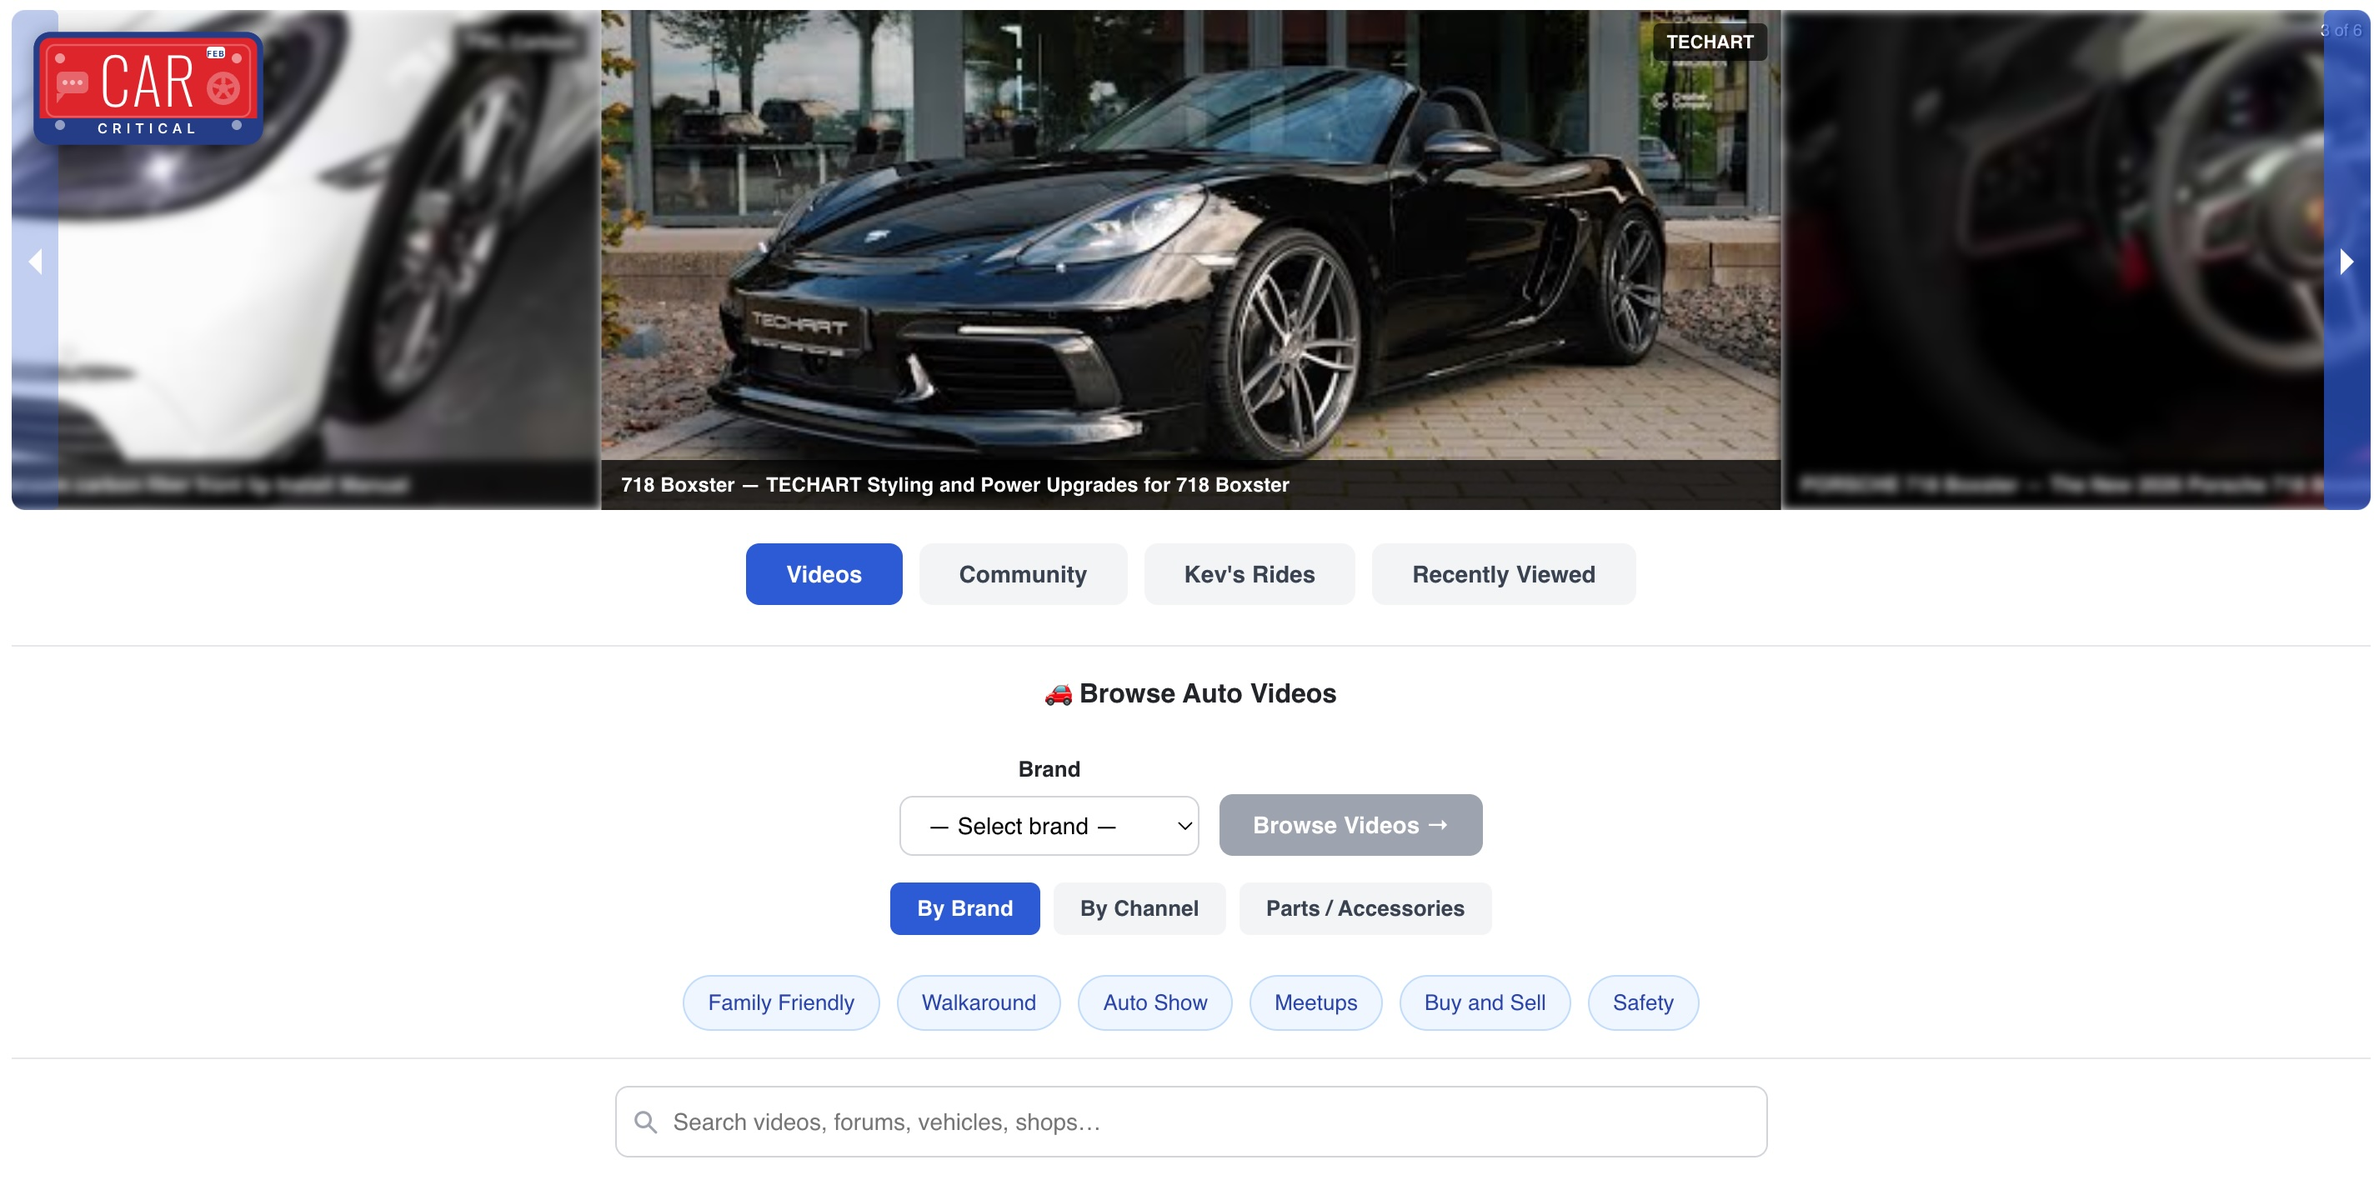
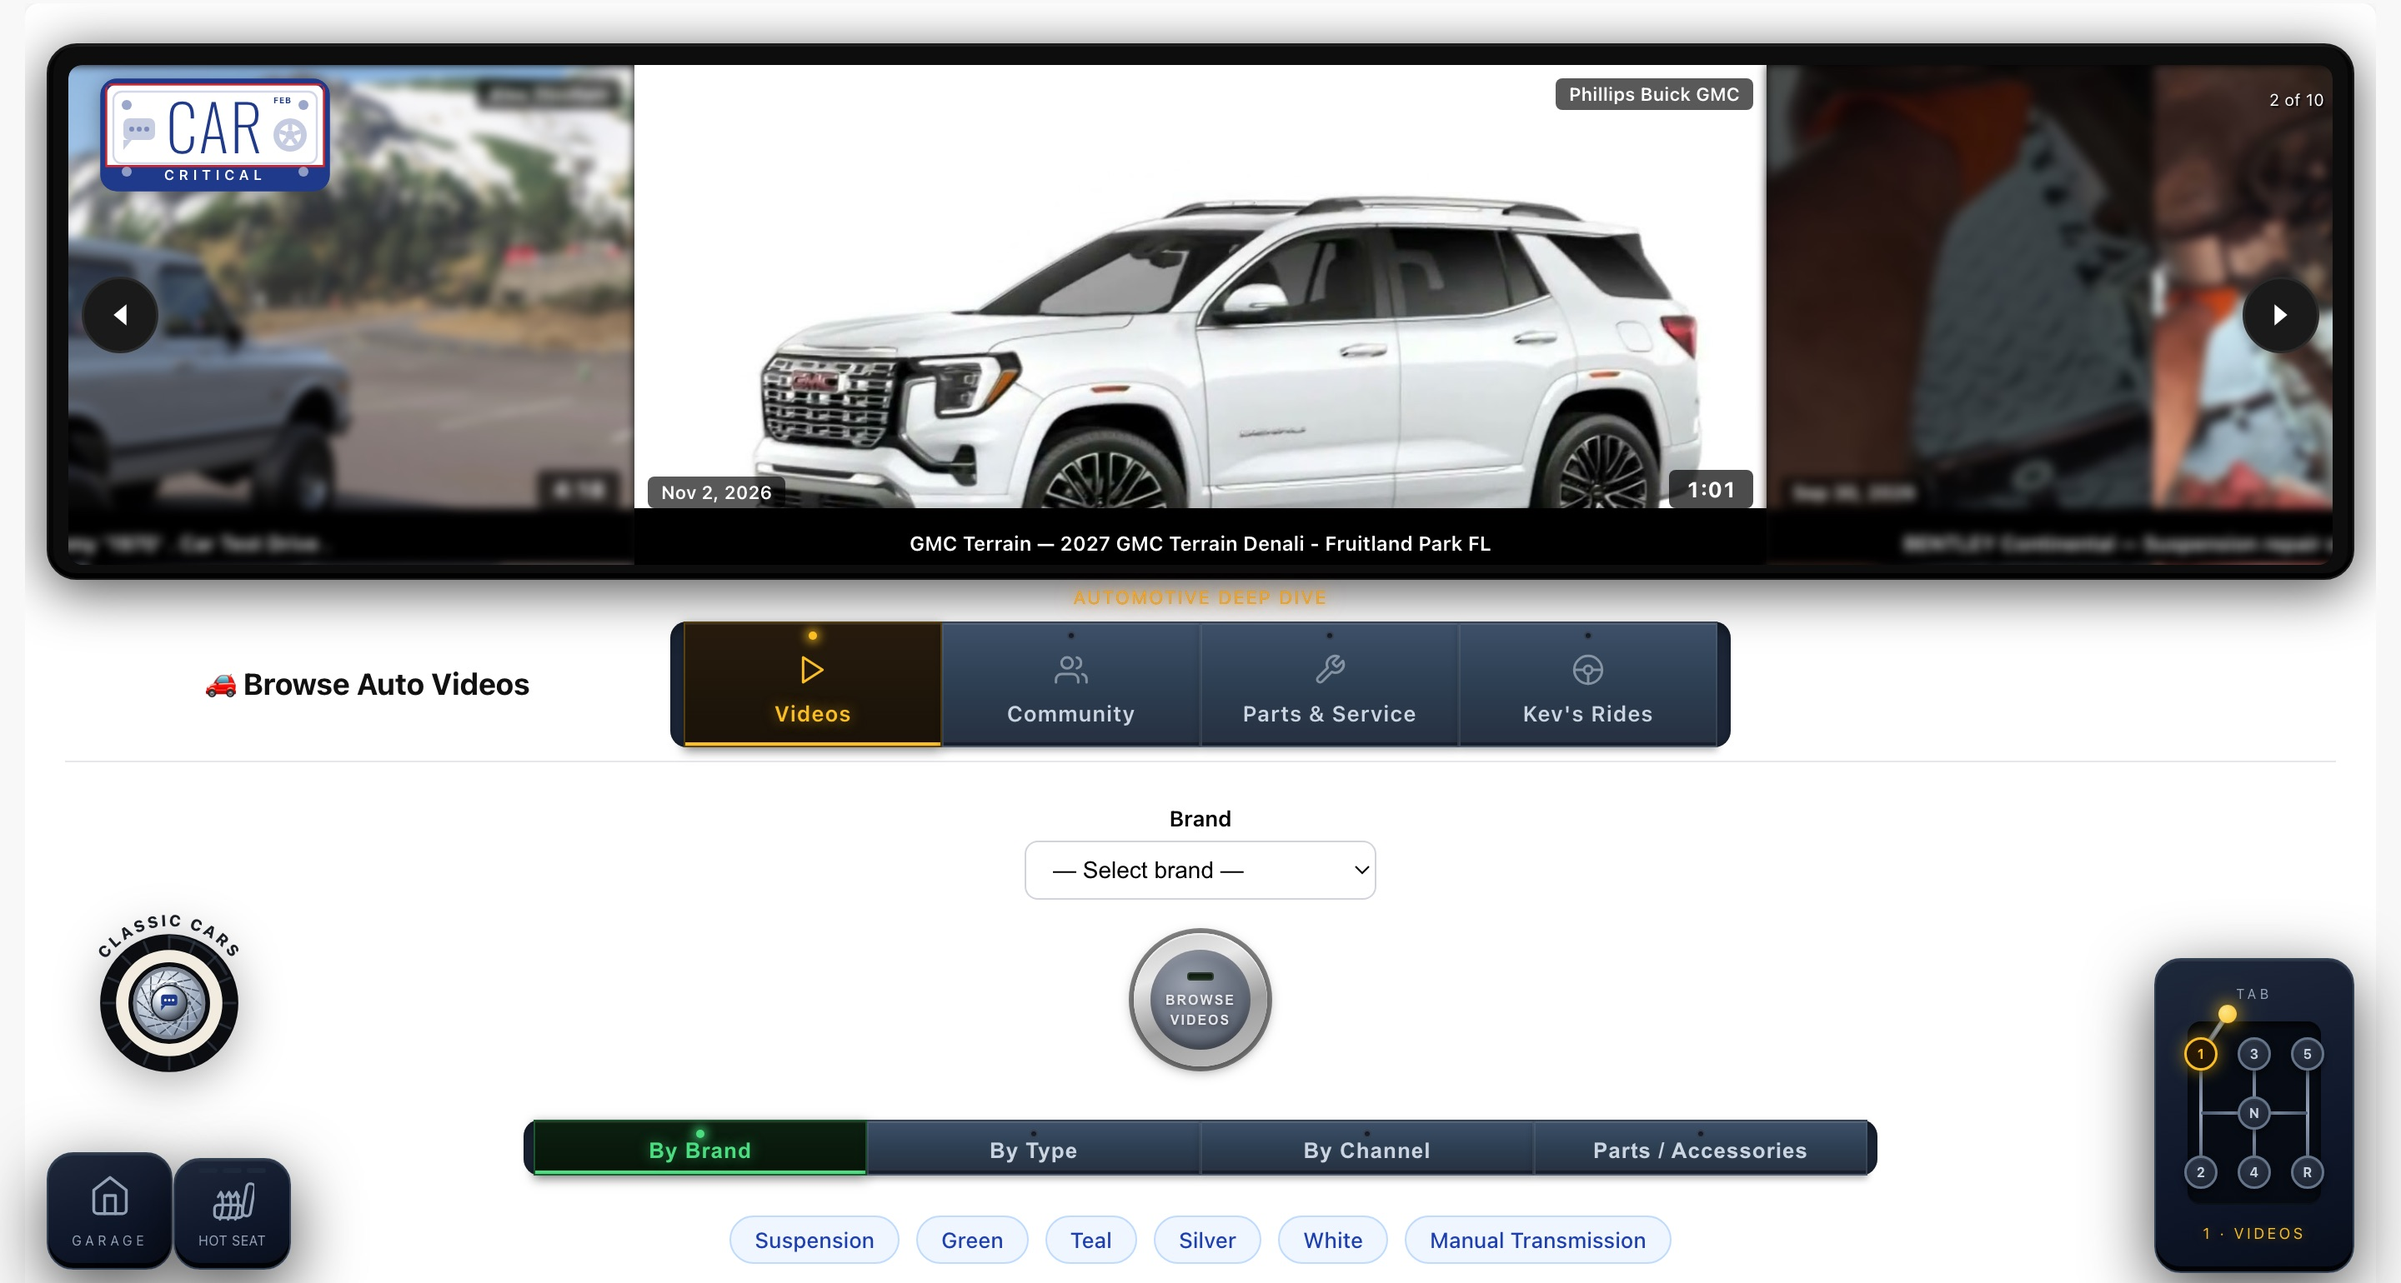
lots of misc updates

diff --git a/src/components/skills.test.js b/src/components/skills.test.js
@@ -9,6 +9,7 @@ let root;
 const mockSkills = ['PHP', 'React', 'MySQL', 'Docker', 'Linux', 'Git', 'Java', 'CSS', 'HTML 5', 'AWS', 'Extra1'];
 const mockSomeExperience = ['Python', 'NodeJS', 'Ruby on Rails'];
 const mockSaas = ['Google Analytics', 'Salesforce', 'Zendesk', 'Zoho'];
+const mockAi = ['Claude', 'Groq', 'OpenCode'];
 
 beforeEach(() => {
     div = document.createElement('div');
@@ -22,20 +23,28 @@ afterEach(() => {
 });
 
 it('renders without crashing', () => {
-    act(() => { root.render(<Skills skills={mockSkills} some_experience={mockSomeExperience} saas={mockSaas} />); });
+    act(() => { root.render(<Skills skills={mockSkills} some_experience={mockSomeExperience} saas={mockSaas} ai={mockAi} />); });
 });
 
-it('renders all three section labels', () => {
-    act(() => { root.render(<Skills skills={mockSkills} some_experience={mockSomeExperience} saas={mockSaas} />); });
+it('renders all four section labels', () => {
+    act(() => { root.render(<Skills skills={mockSkills} some_experience={mockSomeExperience} saas={mockSaas} ai={mockAi} />); });
     const labels = div.querySelectorAll('.skills-label');
     const labelTexts = Array.from(labels).map(l => l.textContent);
     expect(labelTexts).toContain('Proficient');
     expect(labelTexts).toContain('Some Experience');
     expect(labelTexts).toContain('SaaS');
+    expect(labelTexts).toContain('AI');
+});
+
+it('renders AI tools', () => {
+    act(() => { root.render(<Skills skills={mockSkills} some_experience={mockSomeExperience} saas={mockSaas} ai={mockAi} />); });
+    const pills = div.querySelectorAll('.skill-pill--ai');
+    const pillTexts = Array.from(pills).map(p => p.textContent);
+    expect(pillTexts).toEqual(['Claude', 'Groq', 'OpenCode']);
 });
 
 it('renders SaaS tools', () => {
-    act(() => { root.render(<Skills skills={mockSkills} some_experience={mockSomeExperience} saas={mockSaas} />); });
+    act(() => { root.render(<Skills skills={mockSkills} some_experience={mockSomeExperience} saas={mockSaas} ai={mockAi} />); });
     const pills = div.querySelectorAll('.skill-pill');
     const pillTexts = Array.from(pills).map(p => p.textContent);
     expect(pillTexts).toContain('Google Analytics');
@@ -45,13 +54,13 @@ it('renders SaaS tools', () => {
 });
 
 it('renders proficient skills', () => {
-    act(() => { root.render(<Skills skills={mockSkills} some_experience={mockSomeExperience} saas={mockSaas} />); });
+    act(() => { root.render(<Skills skills={mockSkills} some_experience={mockSomeExperience} saas={mockSaas} ai={mockAi} />); });
     const pills = div.querySelectorAll('.skill-pill--proficient');
     expect(pills.length).toBeGreaterThan(0);
 });
 
 it('shows show-more button when proficient skills exceed 10', () => {
-    act(() => { root.render(<Skills skills={mockSkills} some_experience={mockSomeExperience} saas={mockSaas} />); });
+    act(() => { root.render(<Skills skills={mockSkills} some_experience={mockSomeExperience} saas={mockSaas} ai={mockAi} />); });
     const buttons = div.querySelectorAll('.skills-show-all');
     expect(buttons.length).toBeGreaterThan(0);
     expect(buttons[0].textContent).toMatch(/\+\d+ more/);
@@ -60,5 +69,5 @@ it('shows show-more button when proficient skills exceed 10', () => {
 it('renders gracefully with no props', () => {
     act(() => { root.render(<Skills />); });
     const labels = div.querySelectorAll('.skills-label');
-    expect(labels.length).toBe(3);
+    expect(labels.length).toBe(4);
 });

diff --git a/src/components/about.js b/src/components/about.js
@@ -1,8 +1,9 @@
 import React, { useState } from 'react';
+import PropTypes from 'prop-types';
 import PageLayout from './pageLayout';
 import profilePicture from '../kevin.jpeg';
 
-export default function About() {
+export default function About({ navLinkHandler }) {
     const [showVideo, setShowVideo] = useState(false);
 
     return (
@@ -11,9 +12,9 @@ export default function About() {
                 <img className="about-profile-pic" src={profilePicture} alt="kevin" />
                 <div className="about-bio">
                     <h3 className="about-name">Kevin Wilson</h3>
-                    <p className="about-intro">14+ years in software development, specializing in LAMP stack, APIs, and integrations.</p>
-                    <p>PHP is my strongest language, but I'm really enjoying working with Python and React. In my spare time I like to work on app ideas and trying new technologies.</p>
-                    <p>I also enjoy music, investing, and the great outdoors.</p>
+                    <p className="about-intro">14+ years in software development, specializing in microservices, AI development, APIs, and integrations. Industries include telecommunications, real estate, hospitality and social media.</p>
+                    <p>Learned to code with PHP, Javascript &amp; MySQL. These days my favorite stack is Python, Django, PostgreSQL and React. I'm constantly pushing myself to explore new software technologies, languages and frameworks.</p>
+                    <p>When I'm not working on <a href="/onward-code" onClick={(e) => navLinkHandler && navLinkHandler(e, 'onwardCode')}>Onward Code</a>, I immerse myself in <a href="https://carcritical.com" target="_blank" rel="noopener noreferrer">car culture</a>, movies &amp; music, <a href="https://stockory.com" target="_blank" rel="noopener noreferrer">investing</a>, and the <a href="https://mtbdash.com" target="_blank" rel="noopener noreferrer">great outdoors</a>.</p>
                 </div>
             </div>
 
@@ -33,4 +34,8 @@ export default function About() {
             </div>
         </PageLayout>
     )
+}
+
+About.propTypes = {
+    navLinkHandler: PropTypes.func
 }

diff --git a/src/components/skills.js b/src/components/skills.js
@@ -4,7 +4,7 @@ import PageLayout from './pageLayout';
 
 const INITIAL_VISIBLE = 10;
 
-export default function Skills({ skills, some_experience, saas }) {
+export default function Skills({ skills, some_experience, saas, ai }) {
     const [showAllProficient, setShowAllProficient] = useState(false);
     const [showAllSome, setShowAllSome] = useState(false);
     const [showAllSaas, setShowAllSaas] = useState(false);
@@ -12,6 +12,7 @@ export default function Skills({ skills, some_experience, saas }) {
     const proficient = skills || [];
     const some = some_experience || [];
     const saasTools = saas || [];
+    const aiTools = ai || [];
     const visibleProficient = showAllProficient ? proficient : proficient.slice(0, INITIAL_VISIBLE);
     const visibleSome = showAllSome ? some : some.slice(0, INITIAL_VISIBLE);
     const visibleSaas = showAllSaas ? saasTools : saasTools.slice(0, INITIAL_VISIBLE);
@@ -72,6 +73,18 @@ export default function Skills({ skills, some_experience, saas }) {
                             </button>
                         }
                     </div>
+                    <div className="skills-group">
+                        <p className="skills-label">AI</p>
+                        <div className="skills-pills">
+                            { aiTools.map((tool, index) =>
+                                <span
+                                    key={index}
+                                    className="skill-pill skill-pill--ai"
+                                    style={{ animationDelay: `${index * 0.05}s` }}
+                                >{tool}</span>
+                            )}
+                        </div>
+                    </div>
                 </div>
             </div>
         </PageLayout>
@@ -81,5 +94,6 @@ export default function Skills({ skills, some_experience, saas }) {
 Skills.propTypes = {
     skills: PropTypes.array,
     some_experience: PropTypes.array,
-    saas: PropTypes.array
+    saas: PropTypes.array,
+    ai: PropTypes.array
 }

diff --git a/src/components/projects.js b/src/components/projects.js
@@ -3,6 +3,7 @@ import PropTypes from 'prop-types';
 import PageLayout from './pageLayout';
 import mtbdashScreenshot from '../images/mtbdash.jpg';
 import carcriticalScreenshot from '../images/carcritical.jpg';
+import stockoryScreenshot from '../images/stockory.jpg';
 
 const PROJECT_GROUPS = [
     { key: 'microservices_campspot',        heading: 'Microservices Work - Campspot.com, Denver, CO (2022-2024)', hidden: false },
@@ -136,6 +137,23 @@ export default function Projects({
                         <p>Video catalog, specs, shops and social media for the automotive community.</p>
                         <p>Built with Django, React and Docker.</p>
                         <a href="https://carcritical.com" target="_blank" rel="noopener noreferrer">Visit CarCritical.com</a>
+                    </div>
+                </div>
+            );
+        }
+
+        if (projectName === 'Stockory.com') {
+            return (
+                <div className="project-featured">
+                    <div className="project-featured-image-wrap">
+                        <a href="https://stockory.com" target="_blank" rel="noopener noreferrer">
+                            <img src={stockoryScreenshot} alt="Stockory.com" className="project-featured-screenshot" />
+                        </a>
+                    </div>
+                    <div className="project-featured-description">
+                        <p>Stock research and portfolio tracking platform for individual investors.</p>
+                        <p>Built with Django, Next.js and Docker.</p>
+                        <a href="https://stockory.com" target="_blank" rel="noopener noreferrer">Visit Stockory.com</a>
                     </div>
                 </div>
             );

diff --git a/src/components/aiStrategies.js b/src/components/aiStrategies.js
@@ -32,6 +32,16 @@ const STRATEGIES = [
         title: "Don't give AI the keys to the castle",
         body: "In 2026, there is no reason AI should be writing/reading prod data or have access to hosting/deploying configuration. Your local environment and/or development environments should give you all you need to reproduce an issue or test a new configuration. Make sure test data is seeded and/or mocked regardless of the test suite you're running. I personally avoid letting the AI run git commands to prevent costly mistakes to the repo(s), accidental or not.",
     },
+    {
+        number: '07',
+        title: 'Write down the why, not just the what',
+        body: "AI is good at producing code and bad at remembering the reasoning behind it. Architecture Decision Records (ADRs) capture the context, options and tradeoffs behind each significant choice, so the next AI session (or the next engineer) inherits the reasoning instead of re-litigating it. A short markdown file per decision in the repo is usually enough, and I have the AI draft it while the reasoning is still fresh.",
+    },
+    {
+        number: '08',
+        title: 'Climb the testing pyramid',
+        body: "Lots of fast unit tests, a healthy layer of integration tests, and a thin top of end-to-end tests that cover the critical paths. AI makes it cheap to write tests, so it is tempting to skip straight to the slow, brittle ones at the top. Don't. Keep the pyramid's shape intact and the suite stays fast enough that the AI actually runs it, and failures still point at a small piece of code.",
+    },
 ]
 
 const AiStrategies = () => (

diff --git a/src/components/recentProjects.js b/src/components/recentProjects.js
@@ -16,6 +16,12 @@ const IN_PROGRESS = [
         description: 'Video catalog, specs, shops and social media for the automotive community.',
         tech: ['React', 'Django', 'PostgreSQL', 'Docker'],
         link: 'https://carcritical.com'
+    },
+    {
+        title: 'Stockory.com',
+        description: 'Stock research and portfolio tracking platform for individual investors.',
+        tech: ['React', 'Next.js', 'Django', 'PostgreSQL', 'Docker'],
+        link: 'https://stockory.com'
     }
 ]
 
@@ -25,6 +31,7 @@ const TECH_DESCRIPTIONS = {
     'Django':      'High-level Python web framework for rapid development',
     'PostgreSQL':  'Powerful open-source relational database system',
     'React':       'JavaScript library for building user interfaces',
+    'Next.js':     'React framework for server-rendered and static web apps',
     'PHP':         'Server-side scripting language for web development',
     'Laravel':     'PHP framework for elegant web application development',
     'Python':      'Versatile language for web, data, and automation',

diff --git a/public/index.html b/public/index.html
@@ -7,6 +7,10 @@
     <meta name="apple-mobile-web-app-status-bar-style" content="black-translucent" />
     <meta name="apple-mobile-web-app-title" content="Kevin Wilson" />
     <meta name="viewport" content="width=device-width, initial-scale=1, viewport-fit=cover" />
+    <link rel="icon" type="image/svg+xml" href="%PUBLIC_URL%/favicon.svg" />
+    <link rel="icon" type="image/png" sizes="32x32" href="%PUBLIC_URL%/favicon-32x32.png" />
+    <link rel="icon" type="image/png" sizes="16x16" href="%PUBLIC_URL%/favicon-16x16.png" />
+    <link rel="apple-touch-icon" sizes="180x180" href="%PUBLIC_URL%/apple-touch-icon.png" />
     <link rel="manifest" href="%PUBLIC_URL%/manifest.json" />
     <link rel="preconnect" href="https://fonts.googleapis.com" />
     <link rel="preconnect" href="https://fonts.gstatic.com" crossorigin />

diff --git a/src/components/onwardCode.js b/src/components/onwardCode.js
@@ -2,6 +2,7 @@ import React from 'react';
 import PageLayout from './pageLayout';
 import mtbdashScreenshot from '../images/mtbdash.jpg';
 import carcriticalScreenshot from '../images/carcritical.jpg';
+import stockoryScreenshot from '../images/stockory.jpg';
 
 const SITES = [
     {
@@ -15,6 +16,12 @@ const SITES = [
         description: 'Video catalog, specs, shops and social media for the automotive community.',
         link: 'https://carcritical.com',
         image: carcriticalScreenshot,
+    },
+    {
+        title: 'Stockory.com',
+        description: 'Stock research and portfolio tracking platform for individual investors.',
+        link: 'https://stockory.com',
+        image: stockoryScreenshot,
     },
 ]
 

diff --git a/src/components/onwardCode.test.js b/src/components/onwardCode.test.js
@@ -20,10 +20,10 @@ afterEach(() => {
 it('renders a card linking to each site', () => {
     act(() => { root.render(<OnwardCode />); });
     const links = [...div.querySelectorAll('.onward-code-card')].map(a => a.getAttribute('href'));
-    expect(links).toEqual(['https://mtbdash.com', 'https://carcritical.com']);
+    expect(links).toEqual(['https://mtbdash.com', 'https://carcritical.com', 'https://stockory.com']);
 });
 
 it('renders a screenshot in each card', () => {
     act(() => { root.render(<OnwardCode />); });
-    expect(div.querySelectorAll('.onward-code-card img').length).toBe(2);
+    expect(div.querySelectorAll('.onward-code-card img').length).toBe(3);
 });

diff --git a/src/components/recentProjects.test.js b/src/components/recentProjects.test.js
@@ -46,3 +46,11 @@ it('MTBDASH links to mtbdash.com', () => {
     const link = div.querySelector('.in-progress-title');
     expect(link.getAttribute('href')).toBe('https://mtbdash.com');
 });
+
+it('renders a Stockory.com card linking to stockory.com', () => {
+    act(() => { root.render(<RecentProjects />); });
+    const titles = Array.from(div.querySelectorAll('.in-progress-title'));
+    const stockory = titles.find(t => t.textContent === 'Stockory.com');
+    expect(stockory).toBeDefined();
+    expect(stockory.getAttribute('href')).toBe('https://stockory.com');
+});

diff --git a/src/App.js b/src/App.js
@@ -219,7 +219,7 @@ export default function App() {
         </>
       ) : (
         <>
-          { showAbout && <About /> }
+          { showAbout && <About navLinkHandler={navLinkHandler} /> }
 
           { showProjects &&
             <Projects
@@ -240,6 +240,7 @@ export default function App() {
               skills={data.skills}
               some_experience={data.some_experience}
               saas={data.saas}
+              ai={data.ai}
             />
           }
 

diff --git a/src/components/skillRotator.test.js b/src/components/skillRotator.test.js
@@ -3,7 +3,7 @@ import { createRoot } from 'react-dom/client';
 import { act } from 'react';
 import SkillRotator from './skillRotator';
 
-const SKILLS = ['React', 'PHP & Laravel', 'Python', 'Django', 'AWS', 'Docker', 'Playwright Testing', 'Claude'];
+const SKILLS = ['React', 'Next.js', 'PHP & Laravel', 'Python', 'Django', 'AWS', 'Docker', 'Playwright Testing', 'Claude'];
 
 let div;
 let root;
